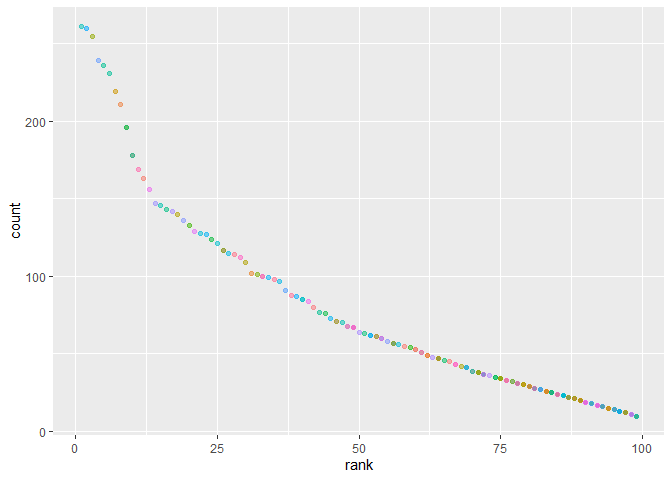
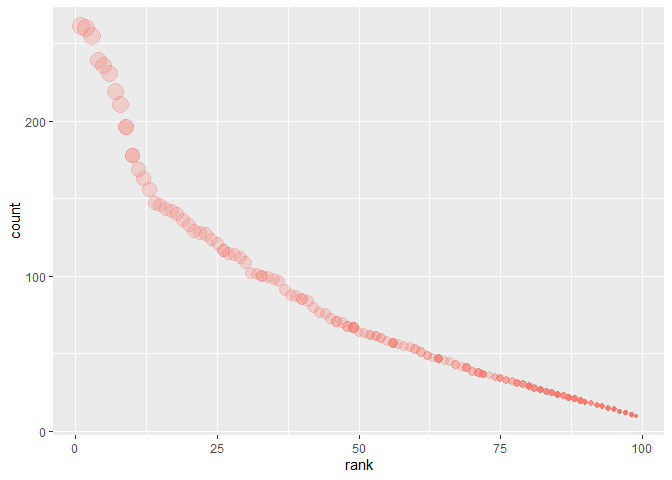
Some minot changes in plot

Changed region(s): [[0.1875, 0.3125, 0.9688, 0.875], [0.0938, 0.0312, 0.2188, 0.2812]]

diff --git a/p8105_hw2_jg4197.md b/p8105_hw2_jg4197.md
@@ -349,8 +349,8 @@ head(male_whit_tbl, 10)
 
 ``` r
 ## coding for a scatterplot
-malwhit_name_plot <- ggplot(male_whit_tbl, aes(x = rank, y = count)) + 
-  geom_point(aes(color = childs_first_name), alpha = .5) + 
+malwhit_name_plot <- ggplot(male_whit_tbl, aes(x = rank, y = count, color = "blue")) + 
+  geom_point(aes(size = count), alpha = .25) + 
   theme(legend.position = "none")
 malwhit_name_plot
 ```
